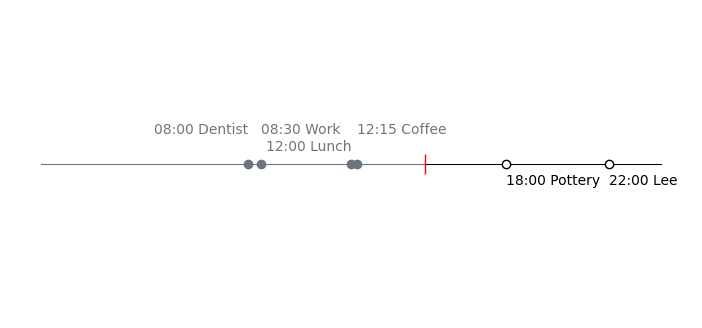
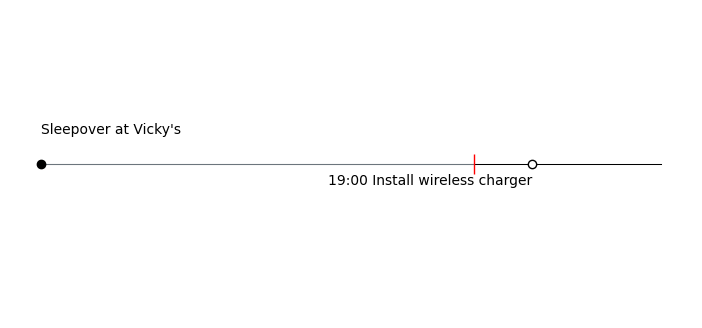
timeline is now dynamic and reflects the current day's events

diff --git a/render/calendar.html b/render/calendar.html
@@ -12,7 +12,7 @@
              style="display:flex;justify-content:space-between;">
             <div class="time-info">2022</div>
             <h3 class="month font-weight-bold mb-0 text-uppercase">2</h3>
-            <div class="time-info">14:52</div>
+            <div class="time-info">16:46</div>
         </div>
         <!-- Days of week -->
         <ol class="day-names list-unstyled text-center"><li class="font-weight-bold text-uppercase">S</li>
@@ -38,7 +38,6 @@
 <div class="event"> Color hair</div>
 <div class="event" style="color:red;">2 more</li>
 <li><div class="datecircle">24</div>
-<div class="event">►Sleepover at Vicky's</div>
 </li>
 <li><div class="date">25</div>
 </li>

diff --git a/render/timeline.py b/render/timeline.py
@@ -16,15 +16,16 @@ def military_to_minutes(time_in_military: str) -> int:
 
 def is_complete(event: dict) -> dict:
     current_time = datetime.now().strftime("%H:%M")
-    if military_to_minutes(current_time) >= military_to_minutes(event["endDatetime"]):
+    if military_to_minutes(current_time) >= military_to_minutes(event["endDatetime"].strftime("%H:%M")):
         # complete
         return {
             "color": GRAY,
             "markerfacecolor": GRAY,
             "xy": .01
         }
-    elif military_to_minutes(event["startDatetime"]) < military_to_minutes(current_time) and military_to_minutes(
-            current_time) <= military_to_minutes(event["endDatetime"]):
+    elif military_to_minutes(event["startDatetime"].strftime("%H:%M")) < military_to_minutes(
+            current_time) and military_to_minutes(
+            current_time) <= military_to_minutes(event["endDatetime"].strftime("%H:%M")):
         # in progress
         return {
             "color": "k",
@@ -43,14 +44,14 @@ def is_complete(event: dict) -> dict:
 class Timeline:
     def __init__(self, event_list):
         self.event_list = event_list
-        self.event_list = [
-            {"summary": "Dentist", "startDatetime": "08:00", "endDatetime": "09:00"},
-            {"summary": "Work", "startDatetime": "08:30", "endDatetime": "09:00"},
-            {"summary": "Lunch", "startDatetime": "12:00", "endDatetime": "13:00"},
-            {"summary": "Coffee", "startDatetime": "12:15", "endDatetime": "12:30"},
-            {"summary": "Pottery", "startDatetime": "18:00", "endDatetime": "21:00"},
-            {"summary": "Lee", "startDatetime": "22:00", "endDatetime": "23:59"},
-        ]
+        # self.event_list = [
+        #     {"summary": "Dentist", "startDatetime": "08:00", "endDatetime": "09:00"},
+        #     {"summary": "Work", "startDatetime": "08:30", "endDatetime": "09:00"},
+        #     {"summary": "Lunch", "startDatetime": "12:00", "endDatetime": "13:00"},
+        #     {"summary": "Coffee", "startDatetime": "12:15", "endDatetime": "12:30"},
+        #     {"summary": "Pottery", "startDatetime": "18:00", "endDatetime": "21:00"},
+        #     {"summary": "Lee", "startDatetime": "22:00", "endDatetime": "23:59"},
+        # ]
         self.current_datetime = datetime.now()
         self.current_time = self.current_datetime.strftime("%H:%M")
         self.current_day = self.current_datetime.today()
@@ -72,15 +73,16 @@ class Timeline:
 
         texts = []
         for event in self.event_list:
-            summary_with_time = f'{event["startDatetime"]} {event["summary"]}'
+            summary_with_time = f'{event["startDatetime"].strftime("%H:%M")} ' * (
+                not event["allday"]) + f'{event["summary"]}'
 
             ax.plot(
-                military_to_minutes(event["startDatetime"]), 0,
+                military_to_minutes(event["startDatetime"].strftime("%H:%M")), 0,
                 "o", color=is_complete(event)["color"], markerfacecolor=is_complete(event)["markerfacecolor"])
 
             texts.append(
                 ax.text(s=summary_with_time,
-                        x=military_to_minutes(event["startDatetime"]), y=is_complete(event)["xy"],
+                        x=military_to_minutes(event["startDatetime"].strftime("%H:%M")), y=is_complete(event)["xy"],
                         color=is_complete(event)["color"])
             )
 

diff --git a/render/render.py b/render/render.py
@@ -24,8 +24,6 @@ from render.timeline import Timeline
 
 
 class RenderHelper:
-    Timeline(None).render()
-
     def __init__(self, width, height, angle):
         self.logger = logging.getLogger('maginkcal')
         self.currPath = str(pathlib.Path(__file__).parent.absolute())
@@ -46,9 +44,9 @@ class RenderHelper:
 
         # "Internal width you want to set+Set "outer frame width" to window size
         target_width = self.imageWidth + \
-            (current_window_size["width"] - inner_width)
+                       (current_window_size["width"] - inner_width)
         target_height = self.imageHeight + \
-            (current_window_size["height"] - inner_height)
+                        (current_window_size["height"] - inner_height)
 
         driver.set_window_rect(
             width=target_width,
@@ -127,7 +125,6 @@ class RenderHelper:
 
         # retrieve calendar configuration
         maxEventsPerDay = calDict['maxEventsPerDay']
-        batteryDisplayMode = calDict['batteryDisplayMode']
         dayOfWeekText = calDict['dayOfWeekText']
         weekStartDay = calDict['weekStartDay']
         is24hour = calDict['is24hour']
@@ -168,17 +165,18 @@ class RenderHelper:
             dayOfMonth = currDate.day
             if currDate == calDict['today']:
                 cal_events_text += '<li><div class="datecircle">' + \
-                    str(dayOfMonth) + '</div>\n'
+                                   str(dayOfMonth) + '</div>\n'
                 timeline_events = calList[i]
+                calList[i] = {}
             elif currDate.month != calDict['today'].month:
                 cal_events_text += '<li><div class="date text-muted">' + \
-                    str(dayOfMonth) + '</div>\n'
+                                   str(dayOfMonth) + '</div>\n'
             elif currDate.weekday() in (5, 6):
                 cal_events_text += '<li><div class="date" style="color:red;">' + \
-                    str(dayOfMonth) + '</div>\n'
+                                   str(dayOfMonth) + '</div>\n'
             else:
                 cal_events_text += '<li><div class="date">' + \
-                    str(dayOfMonth) + '</div>\n'
+                                   str(dayOfMonth) + '</div>\n'
 
             for j in range(min(len(calList[i]), maxEventsPerDay)):
                 event = calList[i][j]
@@ -205,6 +203,8 @@ class RenderHelper:
             cal_events_text += '</li>\n'
 
         # Append the bottom and write the file
+        print(timeline_events)
+        Timeline(timeline_events).render()
         htmlFile = open(self.currPath + '/calendar.html', "w")
         htmlFile.write(calendar_template.format(month=month_name, dayOfWeek=cal_days_of_week,
                                                 events=cal_events_text, current_time=current_time,
@@ -212,5 +212,4 @@ class RenderHelper:
         htmlFile.close()
 
         calBlackImage, calRedImage = self.get_screenshot()
-        print(timeline_events)
         return calBlackImage, calRedImage

diff --git a/maginkcal.py b/maginkcal.py
@@ -94,7 +94,6 @@ def main():
                    'batteryDisplayMode': batteryDisplayMode,
                    'dayOfWeekText': dayOfWeekText, 'weekStartDay': weekStartDay, 'maxEventsPerDay': maxEventsPerDay,
                    'is24hour': is24hour, "current_time": current_time}
-        print(calDict["events"])
         renderService = RenderHelper(imageWidth, imageHeight, rotateAngle)
         calBlackImage, calRedImage = renderService.process_inputs(calDict)
 
